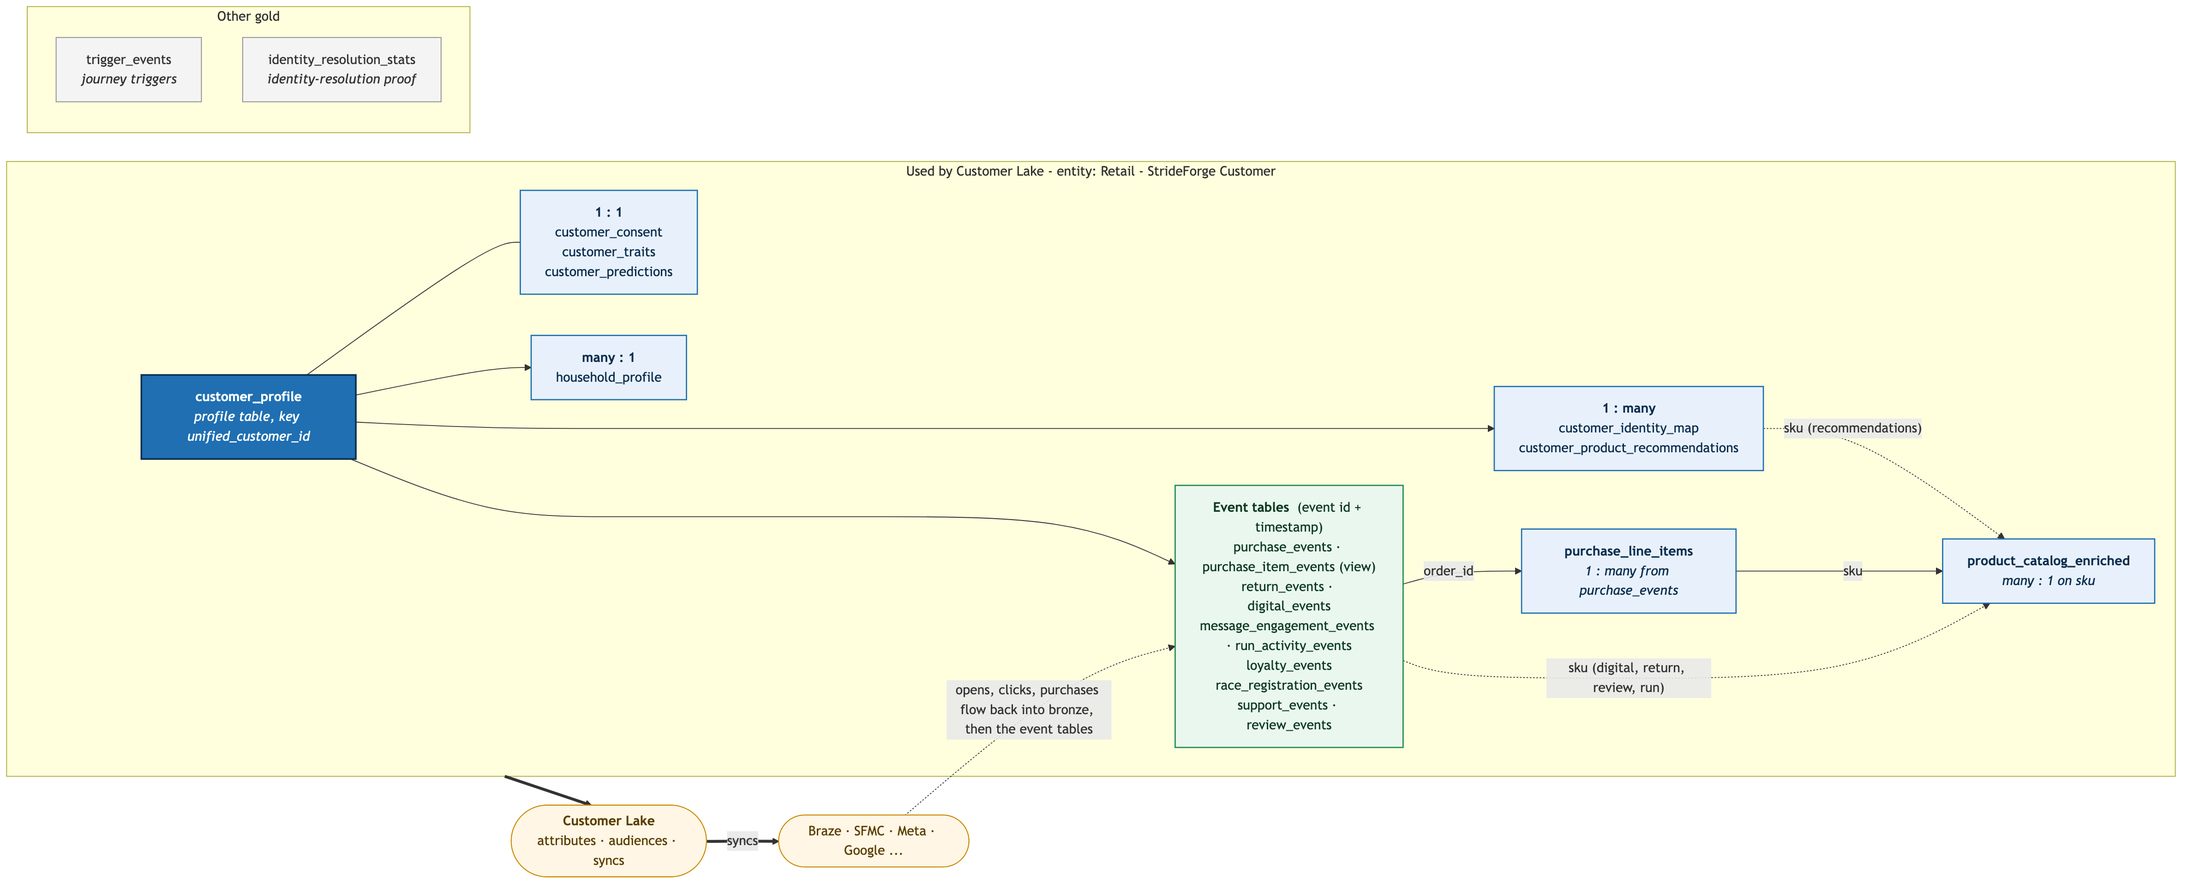
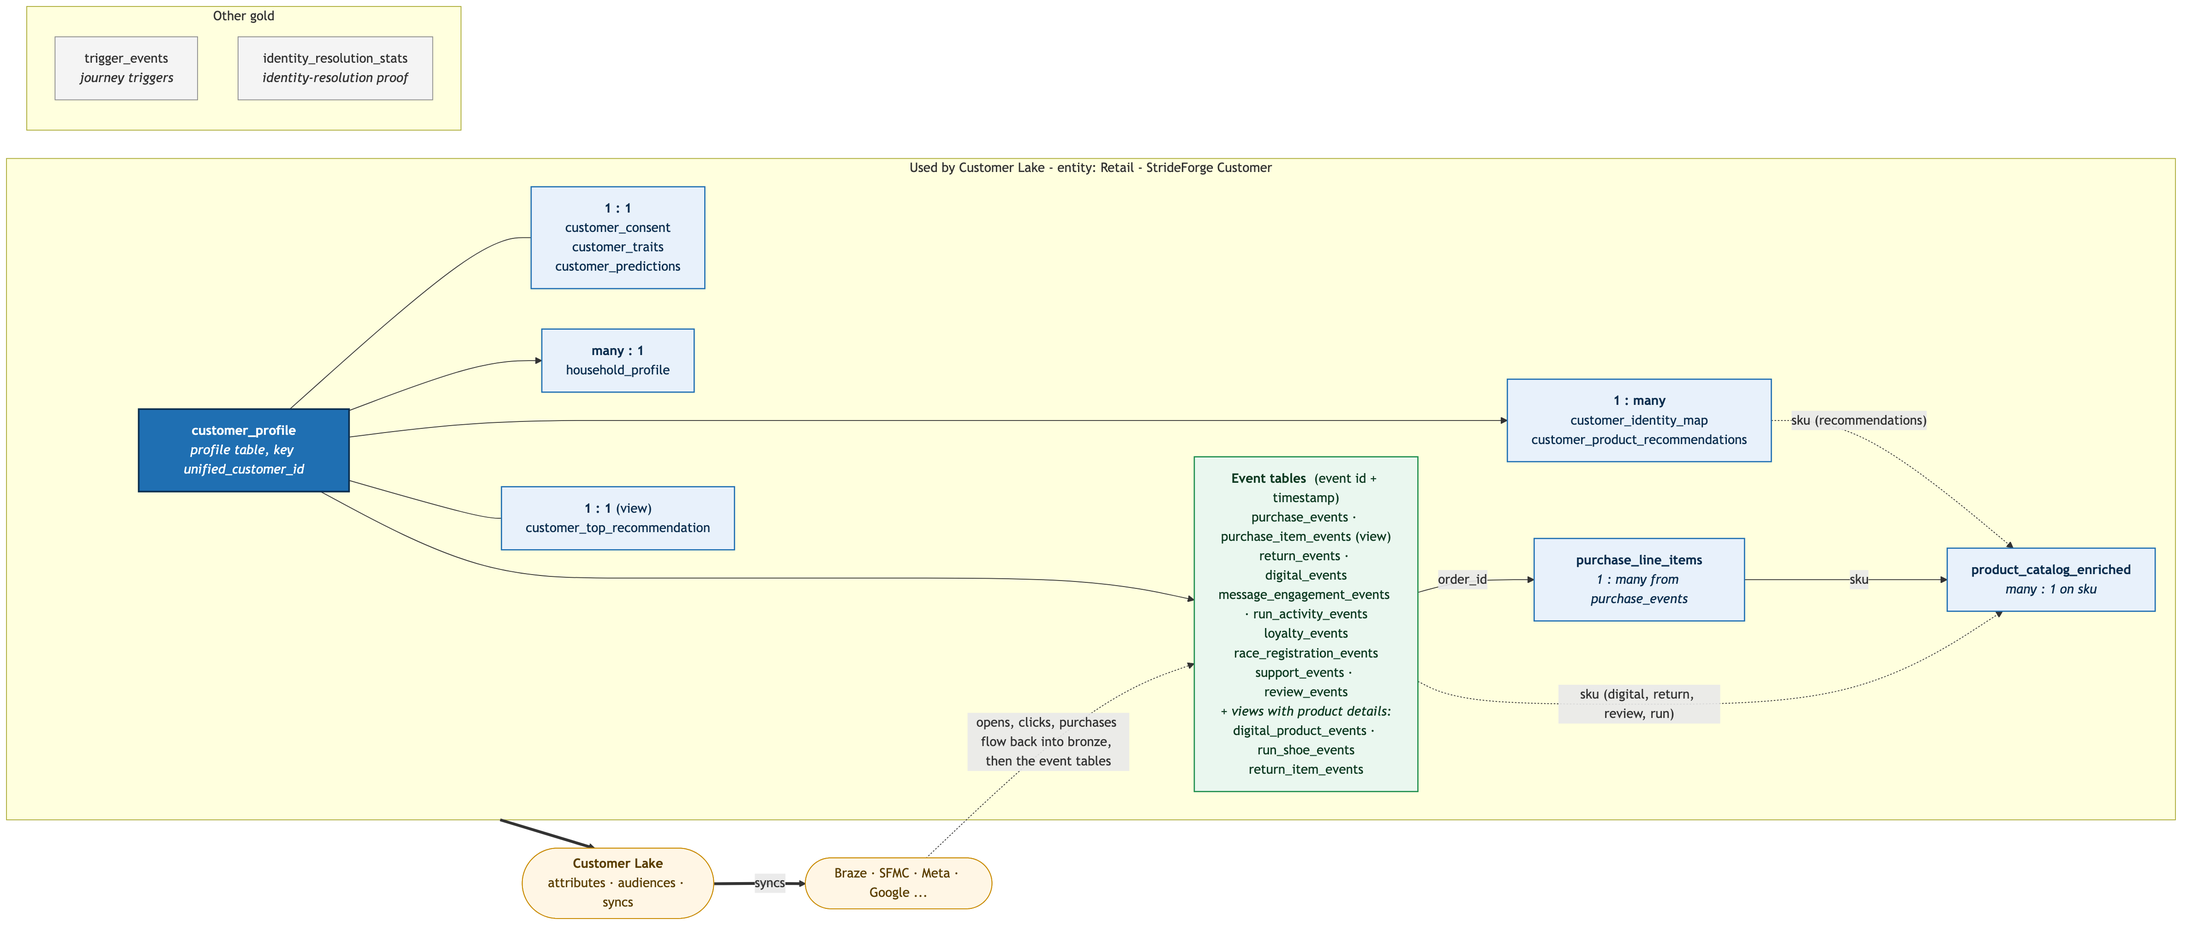
Add product-enriched Customer Lake views
- digital_product_events: web/app events with product name, sport, size, limited drop,
  today's price/markdown/stock
- run_shoe_events: runs with the shoe model, category and size used
- return_item_events: returns with product gender/colorway/size, order channel, USD refund
- customer_top_recommendation: 1:1 #1 pick with product name, price, image and link
Created once with IF NOT EXISTS; covered by the Customer Lake validation step.
Docs and diagrams updated.

diff --git a/src/ddl/03_gold.py b/src/ddl/03_gold.py
@@ -2,7 +2,7 @@
 # MAGIC %md
 # MAGIC # Create gold tables
 # MAGIC
-# MAGIC **What it does:** Creates the gold schema, its 20 tables and the `purchase_item_events` view with a description on every table and column and liquid clustering keys. Safe to re-run: on existing tables it only refreshes descriptions and clustering keys.
+# MAGIC **What it does:** Creates the gold schema, its 20 tables and 5 Customer Lake views with a description on every table and column and liquid clustering keys. Safe to re-run: on existing tables it only refreshes descriptions and clustering keys.
 # MAGIC
 # MAGIC - **Reads:** -
 # MAGIC - **Writes:** `retail_gold` schema and tables
@@ -695,6 +695,164 @@ SELECT li.order_line_id, li.unified_customer_id, pe.order_ts, li.order_id, pe.ch
 FROM ${catalog}.${gold}.purchase_line_items li
 JOIN ${catalog}.${gold}.purchase_events pe USING (order_id)
 LEFT JOIN ${catalog}.${gold}.product_catalog_enriched pc USING (sku)
+""")
+# COMMAND ----------
+
+# MAGIC %md
+# MAGIC ### Step 23 - `digital_product_events` - Customer Lake event table (view): web/app events with product details
+# MAGIC Created once (`IF NOT EXISTS`) so the view keeps its identity for Customer Lake. To change it, drop it first.
+# COMMAND ----------
+
+run(r"""
+CREATE VIEW IF NOT EXISTS ${catalog}.${gold}.digital_product_events (
+  event_id COMMENT 'Event id: unique id of the web/app event.',
+  unified_customer_id COMMENT 'Unified customer id assigned by identity resolution (silver.identity_graph); joins to customer_profile.',
+  event_ts COMMENT 'Event timestamp.',
+  platform COMMENT 'web, ios or android.',
+  event_type COMMENT 'page_view, product_view, search, size_select, add_to_cart, remove_from_cart, checkout_start, purchase, wishlist_add, back_in_stock_signup, app_open, push_open.',
+  session_id COMMENT 'Session id; joins to silver.sessions.',
+  page_type COMMENT 'Page or app screen (home, category, product, search, checkout, pdp...).',
+  sku COMMENT 'SKU = style_id-colorway-size (e.g. RUN0123-01-105). Null for events without a product.',
+  style_id COMMENT 'Product style id (e.g. RUN0123).',
+  style_name COMMENT 'Product name (e.g. CloudStride 3 Men\'s).',
+  category COMMENT 'Product category (Running, Trail, Basketball, Training, Lifestyle, Football, Kids Footwear, Apparel, Kids Apparel, Accessories).',
+  sport COMMENT 'Sport of the product (Running, Trail Running, Basketball, Training, Lifestyle, Football, Multi-Sport).',
+  gender COMMENT 'Product gender: Men, Women, Unisex or Kids.',
+  colorway COMMENT 'Colorway name (e.g. Core Black / Cloud White).',
+  size COMMENT 'Size of the SKU.',
+  selected_size COMMENT 'Size selected on the product page.',
+  is_limited_drop COMMENT 'Product is a limited collab drop.',
+  current_price COMMENT 'Product price today (USD), not at the time of the event.',
+  is_on_markdown COMMENT 'Product is on markdown or promo today.',
+  stock_status COMMENT 'Product stock today: in_stock, low_stock, out_of_stock or discontinued.',
+  search_term COMMENT 'Search query, for search events.',
+  utm_source COMMENT 'UTM source of the visit (google, meta, tiktok, youtube, email, sms, braze, affiliate, referral); null = direct.',
+  utm_campaign COMMENT 'UTM campaign (campaign_id for owned/paid campaigns, promo code for affiliates).',
+  device_type COMMENT 'Device: mobile/desktop/tablet on web, ios/android in the app.'
+)
+COMMENT 'Customer Lake event table (view): identified web/app events (event id event_id, timestamp event_ts) with product name, category, sport, gender, size, limited-drop flag and today\'s price, markdown and stock. Use it to filter browsing and cart activity by product. View over gold digital_events + product_catalog_enriched; created by the gold DDL notebook (ddl/03_gold).'
+TBLPROPERTIES ('cdp_activation' = 'true')
+AS
+SELECT de.event_id, de.unified_customer_id, de.event_ts, de.platform, de.event_type, de.session_id, de.page_type,
+       de.sku, coalesce(pc.style_id, de.style_id) AS style_id, pc.style_name, coalesce(pc.category, de.category) AS category,
+       pc.sport, pc.gender, pc.colorway, pc.size, de.selected_size, pc.is_limited_drop, pc.current_price, pc.is_on_markdown,
+       pc.stock_status, de.search_term, de.utm_source, de.utm_campaign, de.device_type
+FROM ${catalog}.${gold}.digital_events de
+LEFT JOIN ${catalog}.${gold}.product_catalog_enriched pc USING (sku)
+""")
+# COMMAND ----------
+
+# MAGIC %md
+# MAGIC ### Step 24 - `customer_top_recommendation` - Customer Lake 1:1 (view): each customer\'s #1 recommended product with name, image and link
+# MAGIC Created once (`IF NOT EXISTS`) so the view keeps its identity for Customer Lake. To change it, drop it first.
+# COMMAND ----------
+
+run(r"""
+CREATE VIEW IF NOT EXISTS ${catalog}.${gold}.customer_top_recommendation (
+  unified_customer_id COMMENT 'Unified customer id assigned by identity resolution (silver.identity_graph); joins to customer_profile. One row per customer with a recommendation.',
+  rec_sku COMMENT 'Recommended SKU in the customer\'s size.',
+  rec_style_id COMMENT 'Recommended product style id.',
+  rec_product_name COMMENT 'Recommended product name (e.g. CloudStride 3 Women\'s).',
+  rec_category COMMENT 'Category of the recommended product.',
+  rec_sport COMMENT 'Sport of the recommended product.',
+  rec_current_price COMMENT 'Price of the recommended product today (USD).',
+  rec_msrp COMMENT 'List price of the recommended product (USD).',
+  rec_is_on_markdown COMMENT 'Recommended product is on markdown or promo today.',
+  rec_stock_status COMMENT 'Stock of the recommended product today: in_stock, low_stock or out_of_stock.',
+  rec_image_url COMMENT 'Image URL of the recommended product (map it to an email or push template field).',
+  rec_product_url COMMENT 'Product page URL of the recommended SKU (map it to an email or push template field).',
+  rec_type COMMENT 'Why it is recommended: replenish, back_in_stock, new_arrival or cross_sell.',
+  rec_reason COMMENT 'Human-readable reason (e.g. Top seller in Running in your size).',
+  rec_score COMMENT 'Recommendation score (higher is better).',
+  rec_generated_at COMMENT 'When the recommendation was generated.'
+)
+COMMENT 'Customer Lake 1:1 table (view): one row per customer with their #1 product recommendation - product name, category, sport, price, markdown, stock, image URL and product URL. Join 1:1 on unified_customer_id; its columns can be bulk-created as attributes and mapped to sync fields for personalised messages. View over gold customer_product_recommendations (rank 1) + product_catalog_enriched; created by the gold DDL notebook (ddl/03_gold).'
+TBLPROPERTIES ('cdp_activation' = 'true')
+AS
+SELECT r.unified_customer_id, r.sku AS rec_sku, r.style_id AS rec_style_id, pc.style_name AS rec_product_name,
+       pc.category AS rec_category, pc.sport AS rec_sport, pc.current_price AS rec_current_price, pc.msrp AS rec_msrp,
+       pc.is_on_markdown AS rec_is_on_markdown, pc.stock_status AS rec_stock_status, pc.image_url AS rec_image_url,
+       pc.product_url AS rec_product_url, r.recommendation_type AS rec_type, r.reason AS rec_reason, r.score AS rec_score,
+       r.generated_at AS rec_generated_at
+FROM ${catalog}.${gold}.customer_product_recommendations r
+LEFT JOIN ${catalog}.${gold}.product_catalog_enriched pc USING (sku)
+WHERE r.rank = 1
+""")
+# COMMAND ----------
+
+# MAGIC %md
+# MAGIC ### Step 25 - `run_shoe_events` - Customer Lake event table (view): run-app activities with the shoe model used
+# MAGIC Created once (`IF NOT EXISTS`) so the view keeps its identity for Customer Lake. To change it, drop it first.
+# COMMAND ----------
+
+run(r"""
+CREATE VIEW IF NOT EXISTS ${catalog}.${gold}.run_shoe_events (
+  activity_id COMMENT 'Event id: unique id of the run-app activity.',
+  unified_customer_id COMMENT 'Unified customer id assigned by identity resolution (silver.identity_graph); joins to customer_profile.',
+  start_ts COMMENT 'Event timestamp: activity start.',
+  activity_type COMMENT 'run, trail_run, treadmill_run or walk.',
+  distance_km COMMENT 'Distance in km.',
+  distance_miles COMMENT 'Distance in miles.',
+  duration_seconds COMMENT 'Moving time in seconds.',
+  avg_pace_sec_per_km COMMENT 'Average pace (seconds per km).',
+  elevation_gain_m COMMENT 'Elevation gain in metres.',
+  shoe_registration_id COMMENT 'Registered shoe used (joins to silver.shoe_mileage).',
+  shoe_sku COMMENT 'SKU of the shoe used, when a StrideForge shoe.',
+  shoe_name COMMENT 'Model of the shoe used (e.g. CloudStride 2 Men\'s).',
+  shoe_category COMMENT 'Category of the shoe used (Running, Trail ...).',
+  shoe_gender COMMENT 'Gender of the shoe model.',
+  shoe_size COMMENT 'Size of the shoe used.',
+  shoe_total_miles COMMENT 'Total miles on that shoe to date (replacement is due around 400-500).'
+)
+COMMENT 'Customer Lake event table (view): run-app activities (event id activity_id, timestamp start_ts) with the model, category and size of the shoe used and its total miles. Use it to filter runs by shoe model, e.g. for replacement campaigns. View over gold run_activity_events + product_catalog_enriched; created by the gold DDL notebook (ddl/03_gold).'
+TBLPROPERTIES ('cdp_activation' = 'true')
+AS
+SELECT ra.activity_id, ra.unified_customer_id, ra.start_ts, ra.activity_type, ra.distance_km, ra.distance_miles,
+       ra.duration_seconds, ra.avg_pace_sec_per_km, ra.elevation_gain_m, ra.shoe_registration_id, ra.sku AS shoe_sku,
+       pc.style_name AS shoe_name, pc.category AS shoe_category, pc.gender AS shoe_gender, pc.size AS shoe_size,
+       ra.shoe_total_miles
+FROM ${catalog}.${gold}.run_activity_events ra
+LEFT JOIN ${catalog}.${gold}.product_catalog_enriched pc ON pc.sku = ra.sku
+""")
+# COMMAND ----------
+
+# MAGIC %md
+# MAGIC ### Step 26 - `return_item_events` - Customer Lake event table (view): returns with product and original order details
+# MAGIC Created once (`IF NOT EXISTS`) so the view keeps its identity for Customer Lake. To change it, drop it first.
+# COMMAND ----------
+
+run(r"""
+CREATE VIEW IF NOT EXISTS ${catalog}.${gold}.return_item_events (
+  return_id COMMENT 'Event id: return id.',
+  unified_customer_id COMMENT 'Unified customer id assigned by identity resolution (silver.identity_graph); joins to customer_profile.',
+  return_ts COMMENT 'Event timestamp: when the return was requested/processed.',
+  order_id COMMENT 'Original order; joins to purchase_events.order_id.',
+  order_channel COMMENT 'Channel of the original order: web, app or store.',
+  sku COMMENT 'SKU = style_id-colorway-size (e.g. RUN0123-01-105).',
+  style_name COMMENT 'Product name (e.g. CloudStride 3 Men\'s).',
+  category COMMENT 'Product category (Running, Trail, Basketball, Training, Lifestyle, Football, Kids Footwear, Apparel, Kids Apparel, Accessories).',
+  sport COMMENT 'Sport of the product (Running, Trail Running, Basketball, Training, Lifestyle, Football, Multi-Sport).',
+  gender COMMENT 'Product gender: Men, Women, Unisex or Kids.',
+  colorway COMMENT 'Colorway name.',
+  size COMMENT 'Size returned.',
+  return_reason COMMENT 'too_small, too_big, comfort, defect, not_as_pictured, changed_mind, other.',
+  is_fit_related COMMENT 'Reason is too_small or too_big.',
+  return_type COMMENT 'refund or exchange.',
+  return_channel COMMENT 'mail or store.',
+  quantity COMMENT 'Units returned.',
+  refund_usd COMMENT 'Refunded amount (USD; fixed demo FX: CAD 1.35, GBP 0.80, EUR 0.93).'
+)
+COMMENT 'Customer Lake event table (view): identified returns (event id return_id, timestamp return_ts) with product name, category, sport, gender, colorway and size, the original order channel and the refund in USD. View over gold return_events + product_catalog_enriched + purchase_events; created by the gold DDL notebook (ddl/03_gold).'
+TBLPROPERTIES ('cdp_activation' = 'true')
+AS
+WITH fx AS (SELECT * FROM VALUES ('USD', 1.0), ('CAD', 1.35), ('GBP', 0.80), ('EUR', 0.93) AS t(currency, rate))
+SELECT re.return_id, re.unified_customer_id, re.return_ts, re.order_id, pe.channel AS order_channel, re.sku,
+       re.style_name, re.category, re.sport, pc.gender, pc.colorway, pc.size, re.return_reason, re.is_fit_related,
+       re.return_type, re.return_channel, re.quantity, CAST(re.refund_amount / fx.rate AS DECIMAL(12, 2)) AS refund_usd
+FROM ${catalog}.${gold}.return_events re
+LEFT JOIN ${catalog}.${gold}.product_catalog_enriched pc USING (sku)
+LEFT JOIN ${catalog}.${gold}.purchase_events pe USING (order_id)
+LEFT JOIN fx USING (currency)
 """)
 # COMMAND ----------
 

diff --git a/src/gold/04_customer_lake.py b/src/gold/04_customer_lake.py
@@ -187,7 +187,8 @@ EVENTS = {"purchase_events": ("order_id", "order_ts"), "return_events": ("return
           "run_activity_events": ("activity_id", "start_ts"), "loyalty_events": ("ledger_id", "activity_ts"),
           "race_registration_events": ("registration_id", "registered_at"), "support_events": ("ticket_id", "created_at"),
           "review_events": ("review_id", "submitted_at"),
-          "purchase_item_events": ("order_line_id", "order_ts")}
+          "purchase_item_events": ("order_line_id", "order_ts"), "digital_product_events": ("event_id", "event_ts"),
+          "run_shoe_events": ("activity_id", "start_ts"), "return_item_events": ("return_id", "return_ts")}
 problems = []
 for t, (eid, ts) in EVENTS.items():
     df = spark.table(f"{G}.{t}")
@@ -197,7 +198,8 @@ for t, (eid, ts) in EVENTS.items():
     print(f"{t:28s} rows={r.n:>12,d} distinct_ids={r.d:>12,d} ts={ts_type:10s} {'OK' if ok else 'PROBLEM'}")
     if not ok:
         problems.append(t)
-for t, key in {"household_profile": "household_id", "purchase_line_items": "order_line_id"}.items():
+for t, key in {"household_profile": "household_id", "purchase_line_items": "order_line_id",
+               "customer_top_recommendation": "unified_customer_id"}.items():
     r = spark.table(f"{G}.{t}").selectExpr("count(*) n", f"count(DISTINCT {key}) d").first()
     print(f"{t:28s} rows={r.n:>12,d} distinct_ids={r.d:>12,d}")
     if r.n != r.d:

diff --git a/docs/customer_lake_setup.md b/docs/customer_lake_setup.md
@@ -37,6 +37,10 @@ Every table has a primary key and a description on each column.
 | `purchase_events` | **event table** | event ID `order_id`, timestamp `order_ts` |
 | `purchase_line_items` | 1:many **from `purchase_events`** | join `order_id = order_id` (one row per order line, with `sku`) |
 | `purchase_item_events` | **event table** (view) | event ID `order_line_id`, timestamp `order_ts`; one row per order line with order **and product** details: the easiest way to filter purchases by product name |
+| `digital_product_events` | **event table** (view) | event ID `event_id`, timestamp `event_ts`; web/app events with product name, sport, gender, size, limited drop, today's price/markdown/stock |
+| `run_shoe_events` | **event table** (view) | event ID `activity_id`, timestamp `start_ts`; runs with the shoe model, category and size used |
+| `return_item_events` | **event table** (view) | event ID `return_id`, timestamp `return_ts`; returns with product gender/colorway/size, original order channel, refund in USD |
+| `customer_top_recommendation` | **1:1** (view) | join `unified_customer_id`; #1 recommended product name, price, markdown, stock, image URL, product URL: bulk-create its columns and map them to sync fields |
 | `return_events` | **event table** | event ID `return_id`, timestamp `return_ts` |
 | `digital_events` | **event table** | event ID `event_id`, timestamp `event_ts` |
 | `message_engagement_events` | **event table** | event ID `message_event_id`, timestamp `event_ts` |
@@ -45,6 +49,10 @@ Every table has a primary key and a description on each column.
 | `race_registration_events` | **event table** | event ID `registration_id`, timestamp `registered_at` |
 | `support_events` | **event table** | event ID `ticket_id`, timestamp `created_at` |
 | `review_events` | **event table** | event ID `review_id`, timestamp `submitted_at` |
+
+The five views repeat their base tables with product details added. For product-based filters, use the view
+(`purchase_item_events`, `digital_product_events`, `run_shoe_events`, `return_item_events`) instead of the base event
+table; keep the base tables for everything else.
 
 **Product data.** `product_catalog_enriched` (key `sku`) is not keyed by customer, so relate it to the tables that
 carry a `sku`, each as **many:1** on `sku = sku`:
@@ -66,7 +74,9 @@ carry a `sku`, each as **many:1** on `sku = sku`:
   - `Email Opens (30d)` = Count of `message_engagement_events.message_event_id` where `event_type = 'open'`, last 30 days
   - `Run Miles (30d)` = Sum of `run_activity_events.distance_miles`, last 30 days
   - `Recommended SKUs` = List of `customer_product_recommendations.sku`
-- **Event attributes** (for event filters): `purchase_item_events.style_name`, `.category`, `.sport`, `.gender`,
+- **Event attributes** (for event filters): `digital_product_events.style_name`, `.event_type`, `.is_limited_drop`;
+  `run_shoe_events.shoe_name`, `.distance_miles`; `return_item_events.style_name`, `.size`, `.return_reason`;
+  `purchase_item_events.style_name`, `.category`, `.sport`, `.gender`,
   `.size`, `.is_limited_drop`, `.revenue_usd`; `purchase_events.channel`, `.categories`, `.has_running_shoes`,
   `.has_cloudstride_3`, `.revenue_usd`; `return_events.return_reason`, `.is_fit_related`, `.style_name`;
   `digital_events.event_type`, `.category`, `.sku`; `message_engagement_events.event_type`, `.channel`, `.campaign_id`;
@@ -107,6 +117,9 @@ Column attributes: `member_count`, `has_kids`, `kids_age_bands`, `household_reve
 | Recent purchasers (suppress) | Customer | event `purchase_events` in last 14 days (use as a blocklist on prospecting syncs) |
 | Bought trail shoes recently | Customer | event `purchase_item_events` in last 30 days where `category = Trail` |
 | Bought a CloudStride 3 | Customer | event `purchase_item_events` in last 180 days where `style_name` contains `CloudStride 3` |
+| CloudStride 3 cart abandoners | Customer | event `digital_product_events` `event_type = add_to_cart` and `style_name` contains `CloudStride 3` in last 7 days, **but not** event `purchase_item_events` same product in last 7 days |
+| Running in an old CloudStride 2 | Customer | event `run_shoe_events` `shoe_name` contains `CloudStride 2` and `shoe_total_miles >= 400` in last 30 days |
+| Top pick on markdown (email) | Customer | `rec_is_on_markdown = true` AND `rec_stock_status = in_stock` AND `email_contactable`; map `rec_product_name`, `rec_image_url`, `rec_product_url` in the sync |
 | Viewed a limited drop | Customer | event `digital_events` `event_type = product_view` in last 7 days where product `is_limited_drop = true` |
 | Recommended item on markdown | Customer | `customer_product_recommendations` product `is_on_markdown = true` AND `stock_status = in_stock` |
 | Email fatigued | Customer | `email_contactable` AND `Email Opens (30d) = 0` |

diff --git a/README.md b/README.md
@@ -13,7 +13,7 @@ Databricks Asset Bundle, so it can be deployed to any workspace.
 |---|---|---|
 | Bronze | `retail_bronze` | 42 raw tables, as they would arrive from each system (stores, website, app, loyalty, email, ads, support, …) |
 | Silver | `retail_silver` | 37 cleaned tables, with every record linked to one customer id |
-| Gold | `retail_gold` | 20 ready-to-use tables and 1 view: the customer view, scores, product feed, journey triggers and the Customer Lake event tables |
+| Gold | `retail_gold` | 20 ready-to-use tables and 5 views: the customer view, scores, product feed, journey triggers and the Customer Lake event tables |
 
 `retail_synthetic_truth` holds the generator's "answer key" (which records really belong to whom), used to check
 identity-resolution accuracy. Every gold table and column has a description in Unity Catalog, and every gold
@@ -57,7 +57,7 @@ Point one entity at the gold tables:
 
 | Entity | Profile table (key) | Joined tables |
 |---|---|---|
-| Retail - StrideForge Customer | `customer_profile` (`unified_customer_id`) | 1:1 `customer_consent`, `customer_traits`, `customer_predictions`; many:1 `household_profile`; 1:many `customer_product_recommendations`, `customer_identity_map`; 10 event tables (`purchase_events`, `return_events`, `digital_events`, `message_engagement_events`, `run_activity_events`, `loyalty_events`, `race_registration_events`, `support_events`, `review_events`, plus the `purchase_item_events` view: order lines with product details); `purchase_line_items` (1:many from `purchase_events`); `product_catalog_enriched` (many:1 on `sku`) |
+| Retail - StrideForge Customer | `customer_profile` (`unified_customer_id`) | 1:1 `customer_consent`, `customer_traits`, `customer_predictions`; many:1 `household_profile`; 1:many `customer_product_recommendations`, `customer_identity_map`; 13 event tables (`purchase_events`, `return_events`, `digital_events`, `message_engagement_events`, `run_activity_events`, `loyalty_events`, `race_registration_events`, `support_events`, `review_events`, plus 4 views that add product details: `purchase_item_events`, `digital_product_events`, `run_shoe_events`, `return_item_events`); 1:1 view `customer_top_recommendation`; `purchase_line_items` (1:many from `purchase_events`); `product_catalog_enriched` (many:1 on `sku`) |
 
 Audiences are built in Customer Lake, not in gold. Campaign results (opens, clicks, conversions) are measured from the event tables. Exact wizard settings, suggested attributes and example audiences: [docs/customer_lake_setup.md](docs/customer_lake_setup.md).
 
